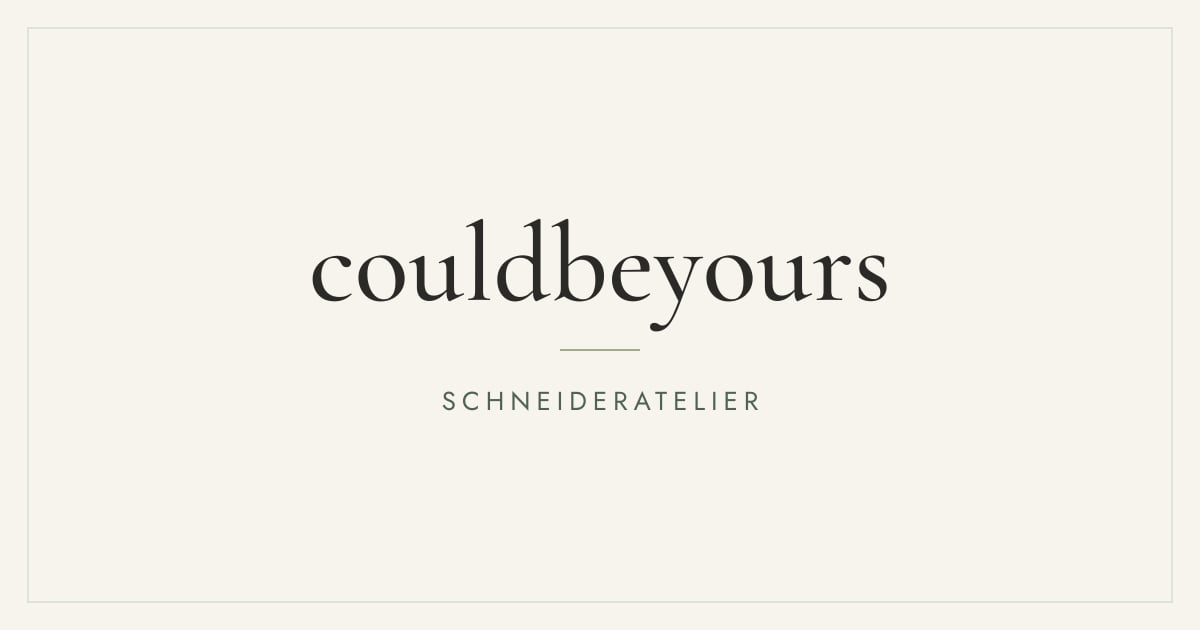
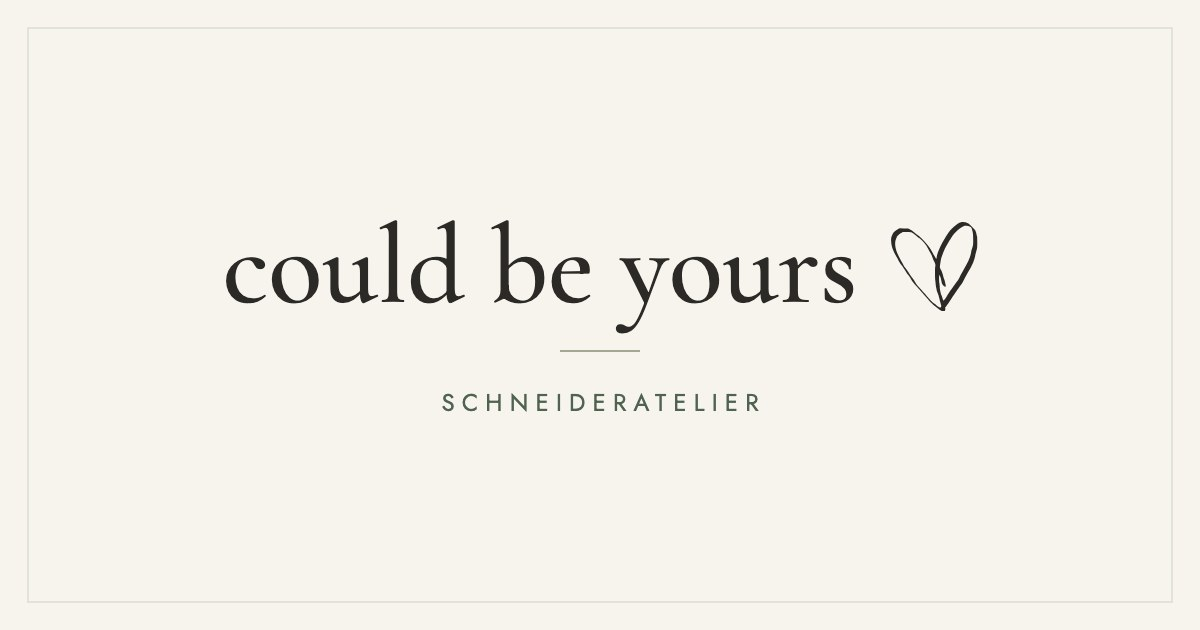
Spell the brand name "could be yours" across the site (#5)
The name is written with spaces, as in the logo: header, hero, footer,
page titles, meta description, About text, legal pages and the Open Graph
image (now with the heart). The intro uses site.name again instead of a
separate wordmark field.

Technical identifiers stay as they are: domain, Instagram handle, repo,
npm package and Cloudflare Worker name.

Changed region(s): [[0.185, 0.3317, 0.74, 0.573], [0.37, 0.6032, 0.6475, 0.6635], [0.74, 0.3619, 0.8325, 0.4825]]

diff --git a/src/lib/content.ts b/src/lib/content.ts
@@ -16,14 +16,12 @@ import impression05 from "@/assets/images/impression-05.jpg"
 import impression06 from "@/assets/images/impression-06.jpg"
 
 export const site = {
-  name: "couldbeyours",
-  // The name as written in the logo, next to the heart (src/components/Intro.astro).
-  wordmark: "could be yours",
-  // TODO: add the town once it is final, e.g. "couldbeyours – Schneideratelier in Zürich".
-  title: "couldbeyours – Schneideratelier",
+  name: "could be yours",
+  // TODO: add the town once it is final, e.g. "could be yours – Schneideratelier in Zürich".
+  title: "could be yours – Schneideratelier",
   // TODO: final meta description (shown by search engines, ~150 characters).
   description:
-    "Schneideratelier couldbeyours: Änderungen, Reparaturen und Massanfertigungen mit viel Sorgfalt und Zeit fürs Detail.",
+    "Schneideratelier could be yours: Änderungen, Reparaturen und Massanfertigungen mit viel Sorgfalt und Zeit fürs Detail.",
   // Served from public/; shown when the page is shared (WhatsApp, Instagram, …). 1200 × 630 px.
   // TODO: replace public/og-image.jpg with a real photo.
   ogImage: "/og-image.jpg",
@@ -64,7 +62,7 @@ export const about = {
   title: "Hallo, ich bin Svenja.",
   // TODO: replace with Svenja's own story; the facts below are invented placeholders.
   paragraphs: [
-    "Schon als Kind sass ich am liebsten neben der Nähmaschine meiner Grossmutter. Aus der Neugier von damals ist ein Beruf geworden: Ich habe Bekleidungsgestalterin gelernt und in verschiedenen Ateliers Erfahrung gesammelt, bevor ich mit couldbeyours meinen eigenen Raum eröffnet habe.",
+    "Schon als Kind sass ich am liebsten neben der Nähmaschine meiner Grossmutter. Aus der Neugier von damals ist ein Beruf geworden: Ich habe Bekleidungsgestalterin gelernt und in verschiedenen Ateliers Erfahrung gesammelt, bevor ich mit could be yours meinen eigenen Raum eröffnet habe.",
     "Mich begeistern Kleider, die bleiben – Stücke, die gut sitzen, lange halten und eine Geschichte erzählen. Darum nehme ich mir Zeit: fürs Zuhören, fürs genaue Messen und für die kleinen Details, die man erst auf den zweiten Blick sieht.",
     "Ob ein neuer Saum für die Lieblingshose oder ein Kleid von Grund auf: Ich freue mich auf dich und deine Ideen.",
   ],
@@ -230,7 +228,7 @@ const postalAddress = [site.name, owner, address.street, address.city, "Schweiz"
 // Swiss business without cookies or tracking, not legal advice.
 export const impressum: LegalPage = {
   title: "Impressum",
-  description: "Impressum des Schneiderateliers couldbeyours.",
+  description: "Impressum des Schneiderateliers could be yours.",
   updated: "Oktober 2026", // TODO: date of the final version
   sections: [
     {
@@ -257,7 +255,7 @@ export const impressum: LegalPage = {
       heading: "Urheberrecht",
       // TODO: credit the photographer, if the photos are not Svenja's own.
       body: [
-        "Texte und Fotos auf dieser Website gehören couldbeyours. Wer sie verwenden möchte, fragt bitte vorher nach.",
+        "Texte und Fotos auf dieser Website gehören could be yours. Wer sie verwenden möchte, fragt bitte vorher nach.",
       ],
     },
   ],
@@ -265,7 +263,7 @@ export const impressum: LegalPage = {
 
 export const privacy: LegalPage = {
   title: "Datenschutzerklärung",
-  description: "Wie couldbeyours mit Personendaten umgeht.",
+  description: "Wie could be yours mit Personendaten umgeht.",
   updated: "Oktober 2026", // TODO: date of the final version
   sections: [
     {
